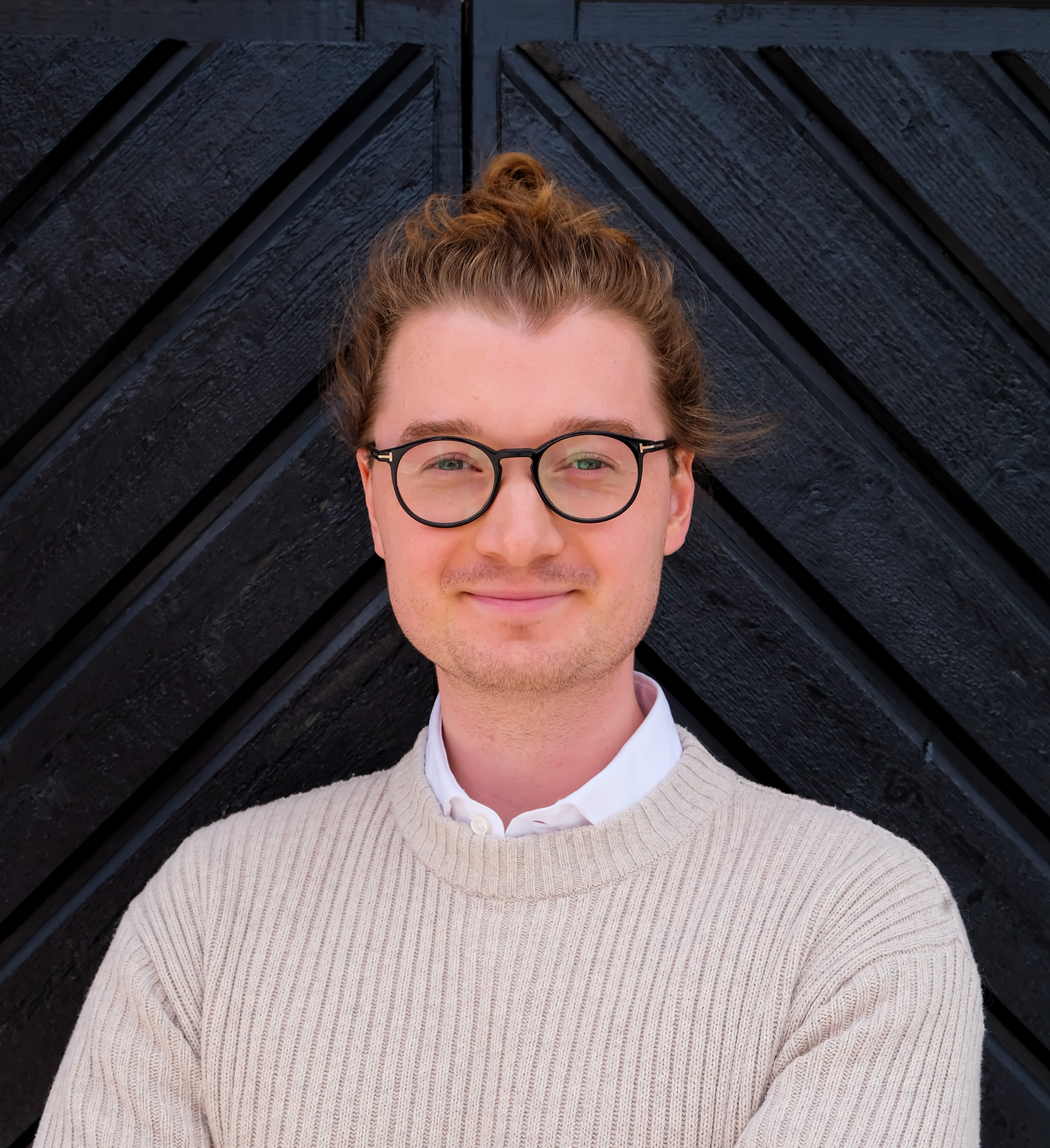
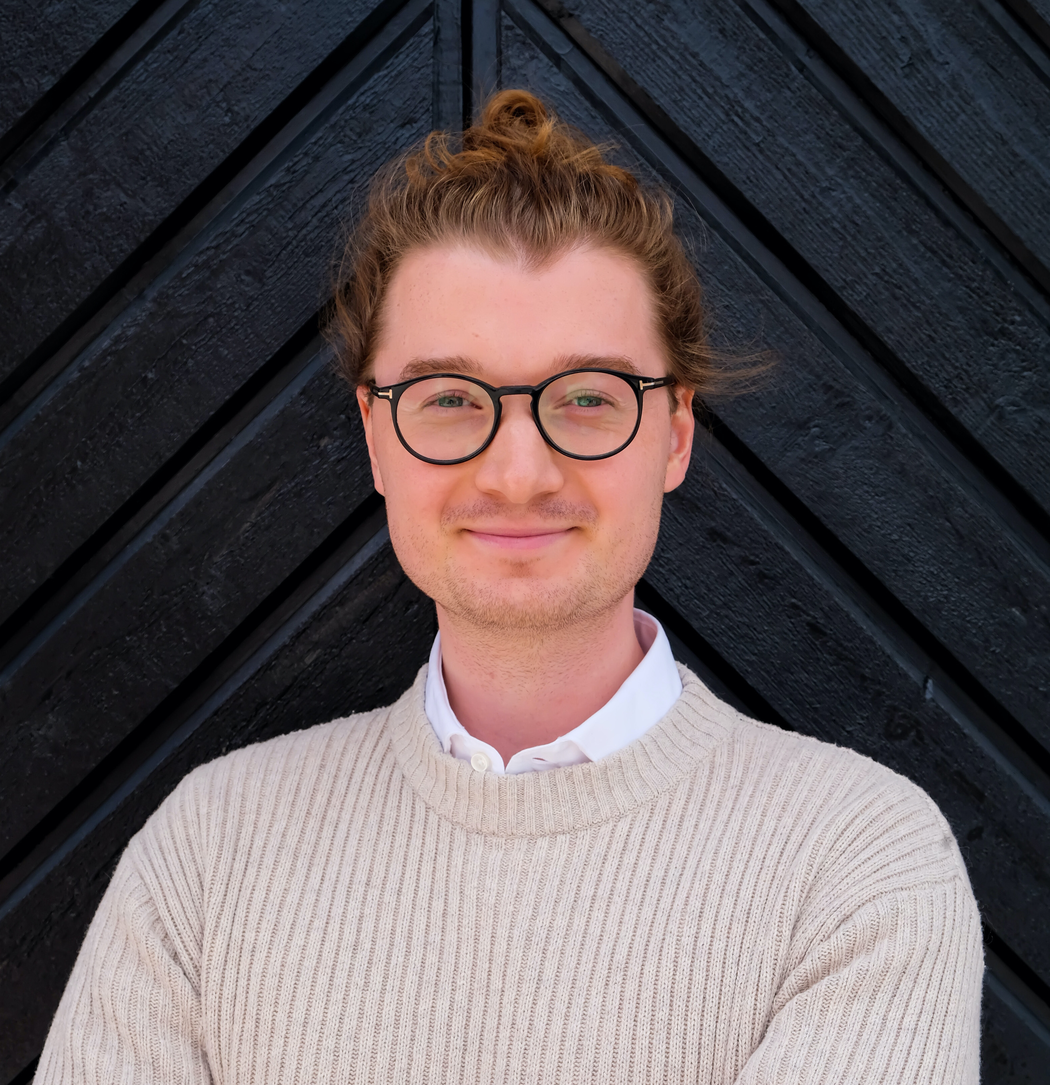
style updates

diff --git a/src/pages/HomePage.module.css b/src/pages/HomePage.module.css
@@ -10,10 +10,15 @@
   height: 70vh;
 }
 
-.profileImg {
-  width: 300px;
-  height: 300px;
+.profileContainer {
+  max-width: 300px;
+  max-height: 300px;
   border-radius: 50%;
+  overflow: hidden;
+}
+
+.profileImg {
+  width: 100%;
 }
 
 .typewriter {
@@ -38,6 +43,7 @@
   text-align: center;
   font-weight: 100;
   text-transform: uppercase;
+  color: #1f2833;
 }
 
 .process {
@@ -107,4 +113,5 @@
   font-size: 1.3rem;
   margin-bottom: 2rem;
   text-align: center;
+  color: #1f2833;
 }

diff --git a/src/pages/HomePage.js b/src/pages/HomePage.js
@@ -9,7 +9,9 @@ const HomePage = () => {
   return (
     <>
       <section className={styles.typewriterSection}>
-        <img className={styles.profileImg} src={profileImg} alt=':)' />
+        <div className={styles.profileContainer}>
+          <img className={styles.profileImg} src={profileImg} alt=':)' />
+        </div>
 
         <div className={styles.typewriter}>
           <p>I am Kevin the </p> <Typewriter options={{
